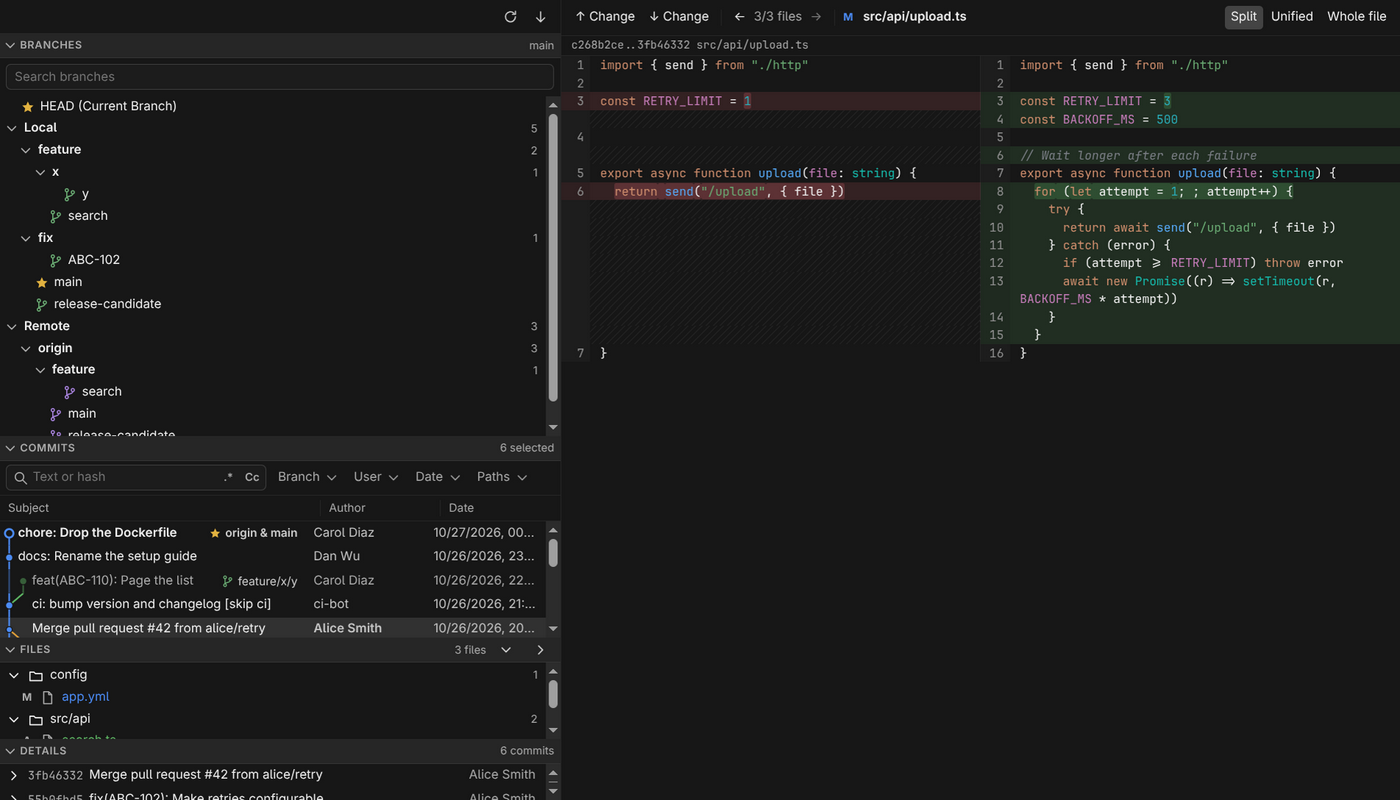
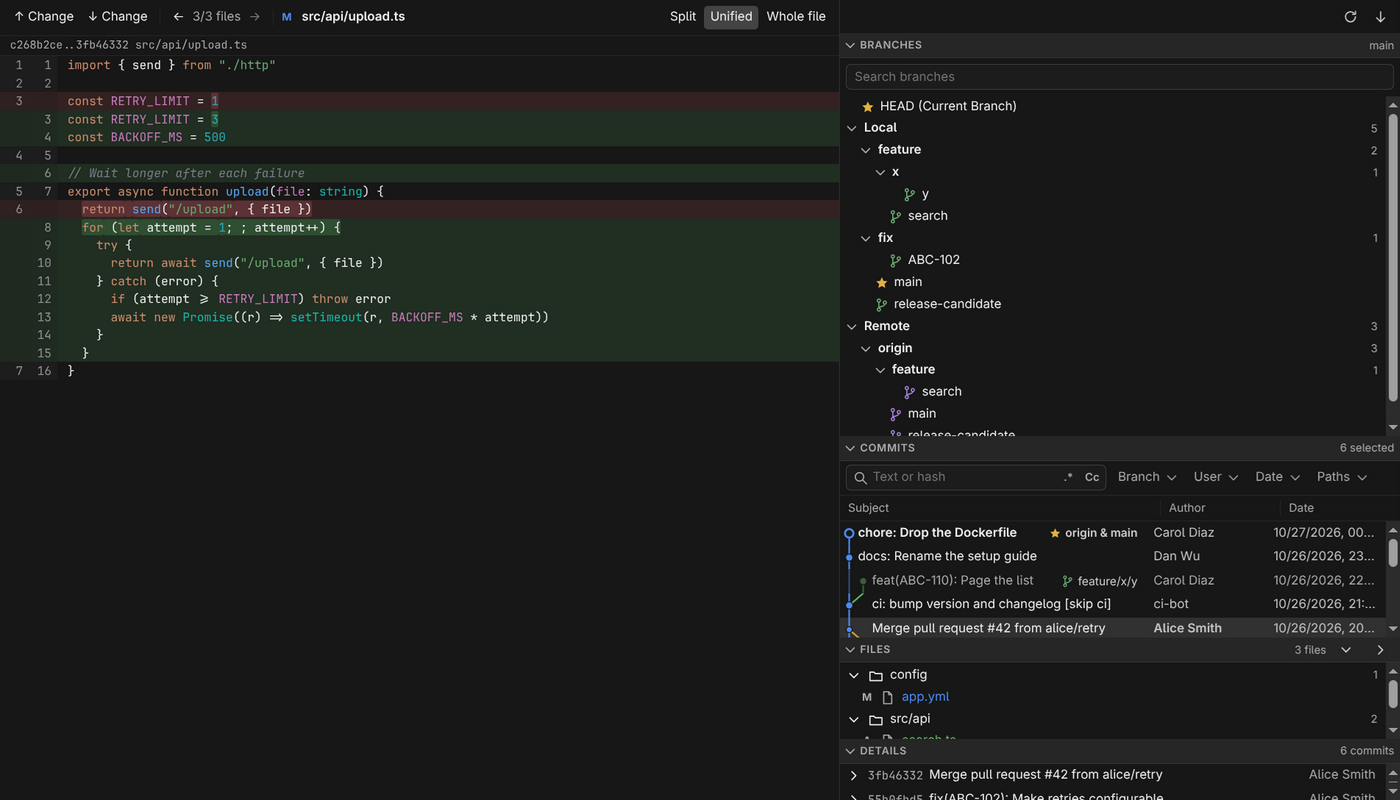
Describe the sidebar and the Diff tab, with new demo screenshots

diff --git a/README.md b/README.md
@@ -1,10 +1,10 @@
 # Git for Orca
 
-![Git tab: branches, commits and files on the left, a side-by-side diff on the right](images/log-dark.png)
+![Git sidebar with six selected commits and their files on the right, the Diff tab with one of the files on the left](images/git-dark.png)
 
 ## About this fork
 
-This is a fork of [emamalet/Orca-git-log-panel](https://github.com/emamalet/Orca-git-log-panel) that reshapes the interface after the WebStorm Git tool window: a branches tree, the commit list and the files of a multi-commit selection with a side-by-side diff. The Git engine (`src/worker`) is kept as close to upstream as possible. The design is in [docs/superpowers](docs/superpowers) and the engine review in [docs/engine-review.md](docs/engine-review.md).
+This is a fork of [emamalet/Orca-git-log-panel](https://github.com/emamalet/Orca-git-log-panel) that reshapes the interface after the WebStorm Git tool window: a sidebar with a branches tree, the commit list and the files of a multi-commit selection, and a Diff tab for the file you click. The Git engine (`src/worker`) is kept as close to upstream as possible. The design is in [docs/superpowers](docs/superpowers) and the engine review in [docs/engine-review.md](docs/engine-review.md).
 
 To pull in upstream changes:
 
@@ -15,10 +15,10 @@ git fetch upstream && git log --oneline main..upstream/main
 Then bring over what you need with `git cherry-pick` or `git merge upstream/main`. Pull requests are not sent to upstream.
 
 An [Orca](https://www.onorca.dev) plugin that adds a WebStorm-style **Git** view to Orca: a branch tree, a
-colored commit graph, the files changed by a whole multi-commit selection, a syntax-highlighted diff beside
-them, and a right-click menu to rewrite history. The interface follows Orca's language (English and Russian).
+colored commit graph, the files changed by a whole multi-commit selection, a syntax-highlighted diff in an
+editor tab, and a right-click menu to rewrite history. The interface follows Orca's language (English and Russian).
 
-![Unified diff with syntax highlighting](images/diff-dark.png)
+![Diff tab: a side-by-side diff of a TypeScript file with syntax highlighting](images/diff-dark.png)
 
 ![Branch tree grouped into folders](images/branches-dark.png)
 
@@ -38,14 +38,15 @@ them, and a right-click menu to rewrite history. The interface follows Orca's la
 - **Files of the selection**: the changed files of all selected commits as a folder tree with status
   letters (added, modified, deleted, renamed), expand/collapse all. For each file the diff runs from its
   state before the earliest selected commit that touched it to its state after the latest one, so a
-  selection across a merge works too. One click opens the file's diff.
+  selection across a merge works too. A click (or Enter) opens the file's diff in the Diff tab.
 - **Details section**: one row per selected commit (short hash, title, author); click a row to expand
   the full message, author, committer, date and branches. A single selected commit is expanded at once.
-- **Diff viewer**: shown beside the sections in the editor tab. Side by side or unified, with changed
-  words highlighted and syntax highlighting for 26 languages (light and dark palettes in the style of
-  WebStorm, the plugin's own because Orca does not pass theme token colors to plugins). Toggle **Whole
-  file** for full context, jump between changes with F7 / Shift+F7 and between files with the arrows in
-  the header or Alt+↑ / Alt+↓. Merge commits are compared with their first parent.
+- **Diff tab**: one editor tab per repository; the next file you open replaces its content. Side by
+  side or unified, with changed words highlighted and syntax highlighting for 26 languages (light and
+  dark palettes in the style of WebStorm, the plugin's own because Orca does not pass theme token colors
+  to plugins). Toggle **Whole file** for full context, jump between changes with F7 / Shift+F7 and
+  between the files of the selection it was opened from with the arrows in the header or Alt+↑ /
+  Alt+↓ (counter "3/5 files"). Merge commits are compared with their first parent.
 - **Multi-select**: click, Ctrl/⌘-click, Shift-click, arrows, Page Up/Down, Home/End, Ctrl+A.
 - **Right-click menu** with icons (or Shift+F10):
   - Copy Revision Number (Ctrl+C), Cherry-Pick, Create Patch… (`git format-patch` of the selection,
@@ -67,14 +68,14 @@ them, and a right-click menu to rewrite history. The interface follows Orca's la
 
 ## Where it shows
 
-- **Right sidebar panel** "Git": the Branches, Commits, Files and Details sections in one column;
-  in a narrow column a commit takes two lines (message, then author and date). Clicking a file there
-  opens the editor tab with the same selection and that file's diff.
-- **Editor tab**: run **Git: Open in Editor Tab** from the command palette (or click the ↗ button
-  in the panel) for the same four sections on the left (Details is the fourth) and the diff of the
-  chosen file on the right, at full height. It opens a small anchor file,
-  `.orca-git-log.gitlog`, at the workspace root; the plugin adds it to `.git/info/exclude` so it never
-  shows up as untracked.
+- **Right sidebar panel** "Git", the plugin's only view: the Branches, Commits, Files and Details
+  sections in one column; in a narrow column a commit takes two lines (message, then author and date).
+- **Diff tab**: opens when you click a file in the panel. Orca has no API for a plugin tab without a
+  file, so the tab is a custom editor on a small anchor file, `.orca-git-log.gitdiff`, that the plugin
+  writes at the root of the workspace holding the repository and adds to `.git/info/exclude`, so it
+  never shows up as untracked. It is opened only in a workspace whose repository is the panel's. An
+  anchor `.orca-git-log.gitlog` left by an earlier version (with a full "Git" tab) stays hidden the
+  same way and can be deleted.
 
 ## Install
 
@@ -97,6 +98,7 @@ orca plugin dev load .          # loads as local.git-log; prints a fingerprint, 
 orca plugin test .              # worker and graph tests on temporary repositories
 orca plugin validate .
 orca plugin shot local.git-log --panel log
+orca plugin shot local.git-log --editor <repo>/.orca-git-log.gitdiff   # the Diff tab, once a file was opened from the panel
 ```
 
 ## How history rewriting works
@@ -110,6 +112,10 @@ a conflict it is aborted, and the branch is left exactly as it was.
 
 - Local workspaces only: SSH, WSL and paired-host workspaces are not supported yet.
 - The diff viewer is read-only, and very large diffs are cut after 20,000 lines.
+- The Diff tab steps through at most 2,000 files: for a larger selection it gets the 2,000 around the
+  file you clicked.
+- The Diff tab's content lives in the plugin's worker: after Orca restarts, a restored Diff tab shows
+  its placeholder until you open a file again.
 - Conflicts during a rewrite, cherry-pick or revert are not resolved in the panel; the operation is
   aborted (or, when Git is left mid-operation by a terminal command, a banner says so).
 - When several workspaces share the same name and branch, the panel matches the focused one through

diff --git a/docs/superpowers/specs/2026-11-09-orca-git-plugin-design.md b/docs/superpowers/specs/2026-11-09-orca-git-plugin-design.md
@@ -158,16 +158,20 @@
 
 - **Подсветка синтаксиса.** Палитры не из темы Орки: у тем есть `tokenColors`, но фреймам плагинов Орка отдаёт только переменные `--orca-*` и класс `light`/`dark`. Читать файл темы с диска самим нельзя (внутреннее состояние Орки, обход платформы), поэтому в плагине свои палитры в стиле WebStorm, светлая и тёмная. Issue в Орку с просьбой отдавать цвета токенов — черновик в `docs/orca-issues.md`.
 - **Язык интерфейса** следует Орке (`orca.locale`): каталоги `en` и `ru`, все строки интерфейса и сообщения воркера идут через `t()`. Вывод самого `git` не переводится.
-- **Две линии в строке коммита.** В колонке уже 520 px строка коммита занимает две линии (сообщение, под ним автор и время), от 540 px строка снова одна. Правило общее для вкладки и сайдбара, высота строки не прыгает при переключении.
+- **Две линии в строке коммита.** В колонке уже 520 px строка коммита занимает две линии (сообщение, под ним автор и время), от 540 px строка снова одна. Высота строки не прыгает при переключении.
 - **«Описание» в левой колонке** (решение пользователя 2026-11-09, секция под диффом не делалась): уже записано в разделе «Раскладка».
-- **Граф в сайдбаре.** Строка коммита в сайдбаре показывает полный граф веток, как во вкладке, а не точку цвета ветки, как задумано в разделе «Панель в правом сайдбаре»: колонка секций у вкладки и сайдбара общая.
+- **Граф в сайдбаре.** Строка коммита в сайдбаре показывает полный граф веток, а не точку цвета ветки, как задумано в разделе «Панель в правом сайдбаре»: колонка секций писалась общей для сайдбара и прежней вкладки «Git», и граф в ней остался.
 - **Сохранность раскладки** проверена только перезагрузкой фрейма плагина (`orca plugin dev reload`): свёрнутость секций и размеры пережили её, `localStorage` хватает, `storage:own` не понадобился. Проверка с полным перезапуском Орки оставлена пользователю.
 - **Живая проверка** сделана на демо-репозитории (вымышленные авторы и коммиты, выделение из шести коммитов через два merge, дерево файлов, дифф split и unified, список описания, ветки с папками). На рабочем репозитории пользователя проверку делает он сам: открытие вкладки там создаёт файл-якорь.
+- **Вкладка «Diff» (задача 14c).** Что показывает вкладка, воркер хранит в памяти по корню репозитория: сайдбар отдаёт выделение и номер файла (`diff.open`), вкладка читает их при старте и по событию `diff.show` (`diff.state`). Поэтому вкладка, восстановленная после перезапуска Орки, показывает заглушку до следующего клика по файлу. Листание ← → во вкладке воркеру не сообщается: если Орка пересоздаст фрейм вкладки, она вернётся к файлу, по которому кликнули. Якорь пишется только в рабочее пространство, чей top level равен корню репозитория сайдбара; если такого нет, сайдбар показывает ошибку и ничего не пишется.
+- **Не больше 2000 файлов во вкладке.** Воркер принимает до 2000 файлов (проверка на границе вместе с путями, буквами статуса и хешами). Если выделение меняет больше файлов, сайдбар отправляет 2000 вокруг выбранного, и счётчик «i/N files» считает только их.
+- **Alt+↑/↓ в списке коммитов** больше не пропускаются мимо списка (раньше их забирал дифф в том же фрейме) и двигают выделение, как обычные стрелки.
+- **Скриншоты README.** Снимок сайдбара в запущенной Орке показывает активное рабочее пространство пользователя, поэтому колонка секций вырезана из прежних снимков демо-репозитория (тот же код и тот же тулбар ↻ ⇣) и поставлена справа от нового снимка вкладки «Diff» с тем же выделением: так Орка их и располагает, а каталогу нужны снимки не меньше 1280×800. Отдельный снимок вкладки «Diff» (`diff-dark.png`) — целиком новый.
 
 ## Проверка
 
 - Тесты движка и новые тесты на объединение файлов выделения: `orca plugin test`.
-- `orca plugin check` и снимки `orca plugin dev watch --shot` для обоих режимов (сайдбар и вкладка).
+- `orca plugin check` и снимки `orca plugin shot` сайдбара и вкладки «Diff».
 - Живая проверка в запущенной Орке на реальных репозиториях пользователя.
 
 ## Оставлено исполнителю
